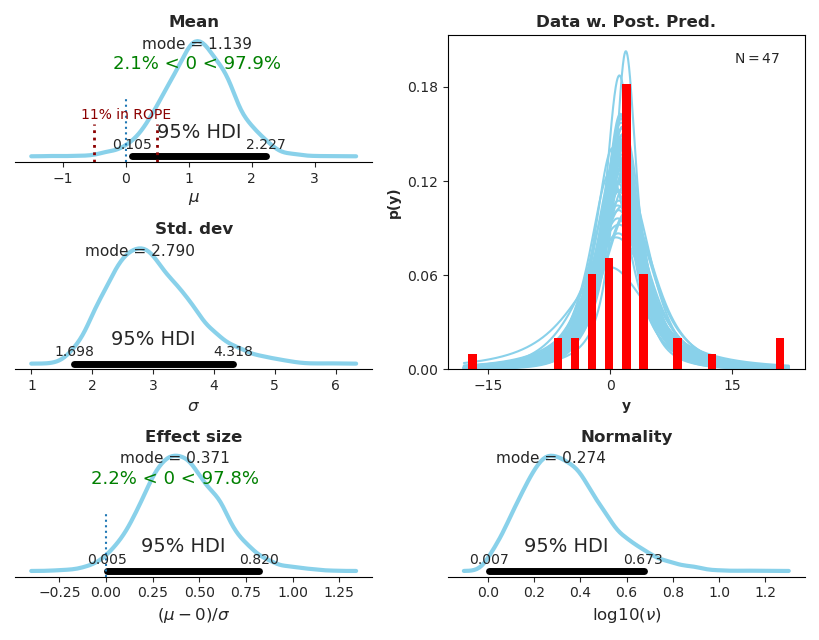
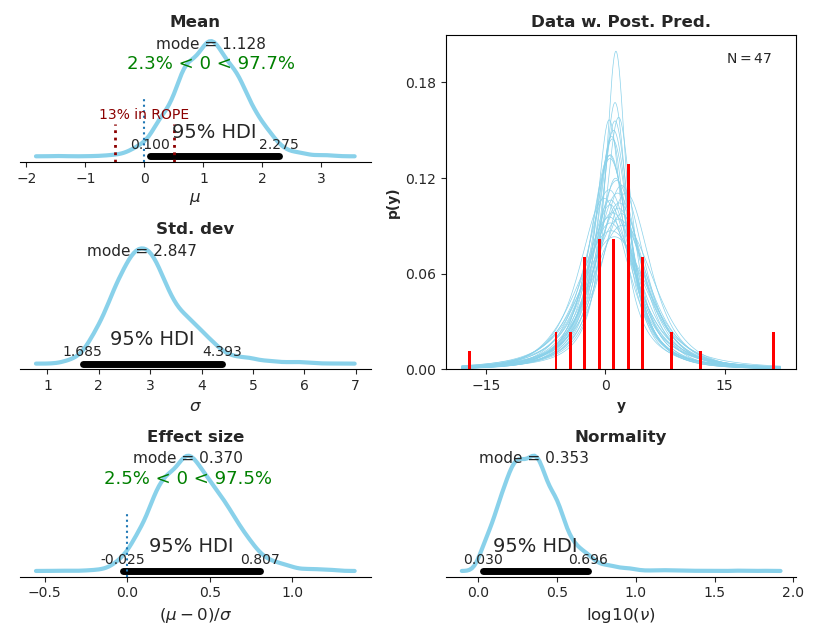
Reduce line width of dist plot

diff --git a/best/plot.py b/best/plot.py
@@ -128,7 +128,7 @@ def plot_posterior_distribution(ax, trace, model):
         nu = numos[i] + 1
 
         v = st.t.pdf(x, nu, mu, std)
-        ax.plot(x, v, color='#89d1ea', zorder=-10, lw=0.1)
+        ax.plot(x, v, color='#89d1ea', zorder=-10, lw=0.5)
 
     ax.hist(observations, bins=bins, rwidth=0.2, facecolor='r', edgecolor='none', density=True)
     ax.set_xlabel('y', fontweight='bold')
